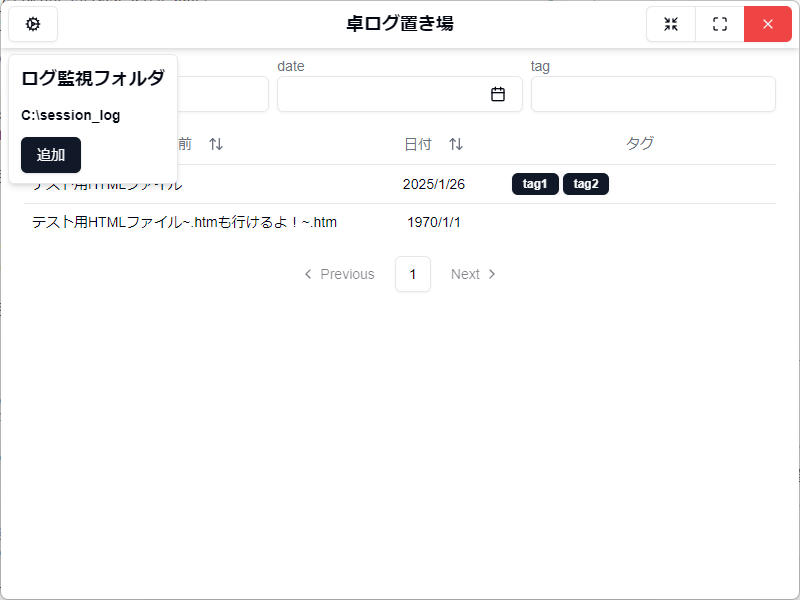
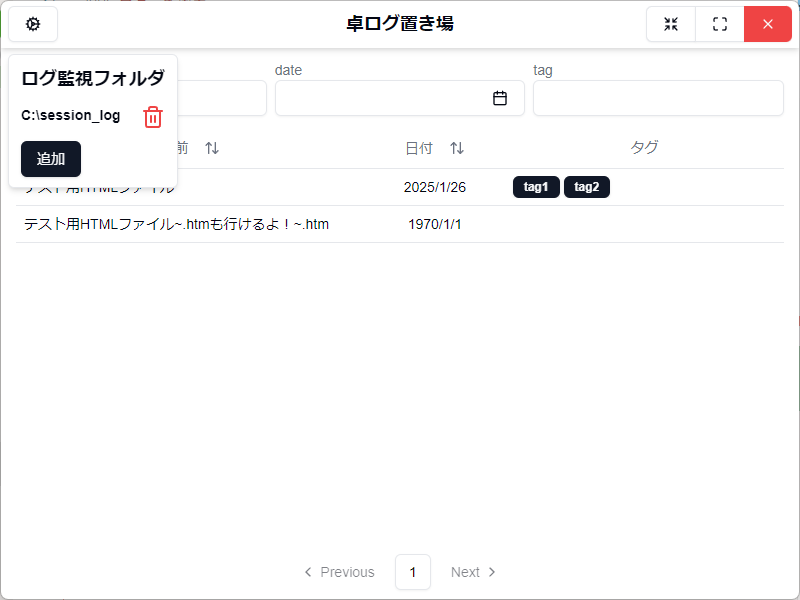
readme編集

diff --git a/README.md b/README.md
@@ -2,8 +2,12 @@
 
 ## 概要
 
-TRPG のセッションログなどの html ファイルを管理閲覧するための windows デスクトップアプリ。  
-複数フォルダのセッションログを一覧表示したり、並び変えたり、絞り込んだり、名前・日付・タグを記録したり。
+TRPG のセッションログなどの html ファイルを閲覧・管理するための windows デスクトップアプリ。  
+
+複数フォルダのセッションログを一覧表示したり、  
+並び変えたり、  
+絞り込んだり、  
+名前・日付・タグを記録したりできます。
 
 ## 機能
 
@@ -43,11 +47,11 @@ TRPG のセッションログなどの html ファイルを管理閲覧するた
 
 ログファイルを収めるフォルダを設定します。  
 画面左上の歯車マークのボタンをクリックすると監視するフォルダが一覧で表示されます。  
-追加ボタンで開くダイアログからフォルダを選択すれば、新たに登録することができます。
+追加ボタンで開くダイアログからフォルダを選択すれば、新たに登録することができます。  
+ゴミ箱ボタンで監視から外すことができます。
 
-> [!NOTE]
-> 機能が不十分です。  
-> 現バージョンでは監視フォルダを削除したい場合は、AppDataフォルダにある「卓ログ置き場」フォルダ内のsetting.jsonからお願いします。
+> [!TIP]
+> 監視を外しても設定ファイル(modifier.json)は削除されません。必要に応じて削除してください。
 
 ![基本画面](./doc/image-monitoring.png)
 
@@ -56,21 +60,30 @@ TRPG のセッションログなどの html ファイルを管理閲覧するた
 ログ一覧画面の表からクリックでログ閲覧画面に遷移します。  
 ログの中身が（ちょっぴり整形されて）表示され、閲覧することができます。
 
-![基本画面](./doc/image03.png)
+![基本画面](./doc/image-detail.png)
 
 ***
 
 ## 今後の実装予定
 
-- ログ監視フォルダの設定
-  - 設定したフォルダの削除機能  
-    現在は user\AppData\Roaming\卓ログ置き場\setting.json からしか編集できません(´・ω・`)
 - ログ閲覧画面
-  - メイン、情報、雑談の表示差分化
   - どこまで読んだかのブックマーク機能
 
 ## 更新履歴
 
+- **v1.2.0** (2025-02-07)
+  - ログ閲覧画面
+    - メイン、情報、雑談、その他のタブ・パラメータ変更の際の表示を分別
+  - 監視フォルダ
+    - 監視フォルダの削除を実装
+  - ログ一覧のUI改善
+    - 検索・編集の日付入力で年単位のカレンダー移動を可能に
+    - ページネーションのボタン位置を固定
+    - デフォルトの並び順を新しい順に
+  - その他修正など
+    - 全ページに読み込み時の表示を追加
+    - スクロールバーの表示実装
+    - 一覧画面の表がタグの有無で行高が変わるのを修正
 - **v1.1.0** (2025-01-26)
   - ログ一覧画面の機能追加
     - 表示データ編集機能を追加。
